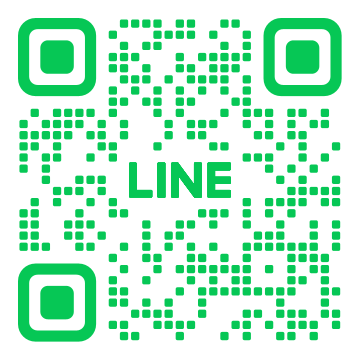
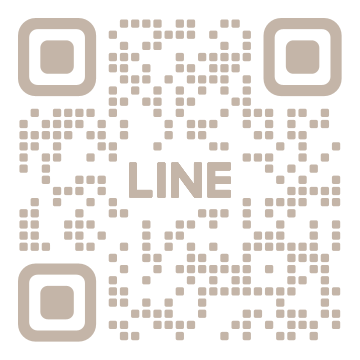
QRcode 圖片更新 按鈕文字色系

diff --git a/css/contact.css b/css/contact.css
@@ -106,18 +106,31 @@
   font-size: 1.05rem;
   font-weight: 700;
   margin-bottom: 8px;
-  color: #1f2b2a;
+  color: #5a4a3f;
 }
 .qr-desc {
   font-size: 0.92rem;
-  color: rgba(90,90,90,0.9);
+  color: #5a4a3f80;
   margin-bottom: 18px;
   line-height: 1.4;
 }
 
 /* 按鈕區 */
-.qr-actions { display:flex; justify-content:center; gap:12px; }
-#qrCloseBtn { min-width: 160px; }
+.qr-actions { 
+  display:flex; 
+  justify-content:center; 
+  gap:12px;
+}
+#qrCloseBtn { 
+  min-width: 160px;
+  border-color: #5a4a3f; 
+  color: #5a4a3f; 
+}
+#qrCloseBtn:hover { 
+  min-width: 160px;
+  background-color: #5a4a3f;
+  color: #f8f0e6;
+}
 
 /* 點擊 overlay 背景關閉時，避免誤點選 modal 內部 */
 .qr-modal * { user-select: text; }

diff --git a/FQA/faq.html b/FQA/faq.html
@@ -58,7 +58,7 @@
       <div class="container">
         <div class="faq-intro">
           <p data-aos="fade-up" class="sub">整理您在合作前、施工中與完工後最常詢問的問題。若找不到答案，歡迎透過「聯繫我們」與我們預約深入諮詢。</p>
-          <a href="/Contact/contact.html" class="btn cta-primary">立即諮詢</a>
+          <a href="/Contact/contact.html" class="btn cta-outline">立即諮詢</a>
         </div>
 
         <!-- 第一組：合作與流程 -->
